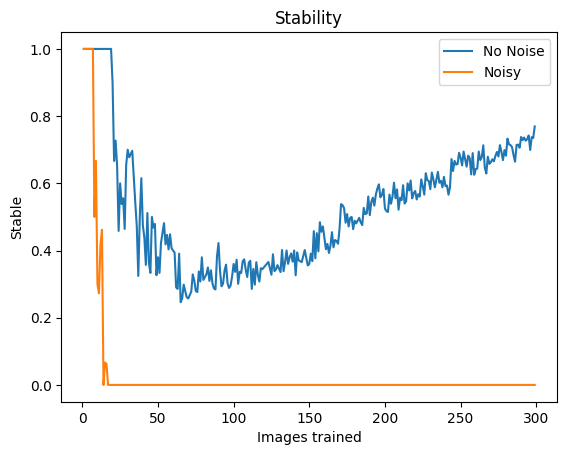
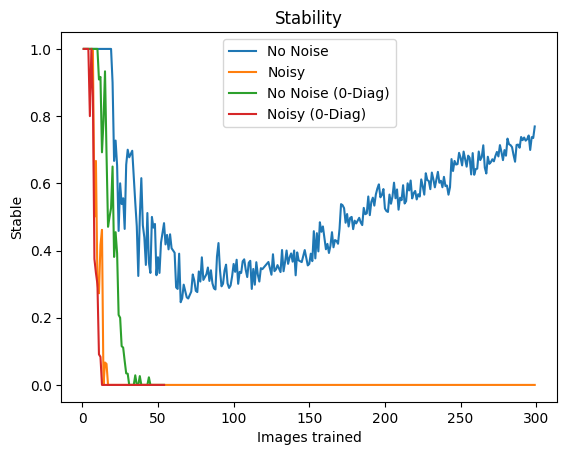
wat

diff --git a/lab3/_3_5.py b/lab3/_3_5.py
@@ -51,19 +51,19 @@ if __name__ == "__main__":
     def checkStable(_images, noiseLevel, delete_diagonal=False):
 
         N = _images.shape[1]
-        
+
         perf = []
         perf_noise = []
 
         for train_idx in range(0, len(_images)):
-            
-            target = _images[:train_idx + 1]
+
+            target = _images[: train_idx + 1]
             target_noisy = np.copy(target)
 
             for i in range(len(target_noisy)):
                 args = np.random.choice(N, int(noiseLevel * N), replace=False)
                 target_noisy[i, args] = target_noisy[i, args] * -1
-            
+
             net = Hopfield()
             net.train(target, delete_diagonal=delete_diagonal)
 
@@ -73,12 +73,17 @@ if __name__ == "__main__":
                 one_iter = net.predict_sync(target[:-1, :], max_iter=1)
                 stable = np.sum(np.all(stable == one_iter, axis=1)) / len(stable)
                 perf.append(stable)
-            
+
                 one_iter_noisy = net.predict_sync(target_noisy[:-1, :], max_iter=1)
-                stable_noisy = np.sum(np.all(stable_noisy == one_iter_noisy, axis=1)) / len(stable_noisy)
+                stable_noisy = np.sum(
+                    np.all(stable_noisy == one_iter_noisy, axis=1)
+                ) / len(stable_noisy)
                 perf_noise.append(stable_noisy)
 
-                print (train_idx, stable, stable_noisy)
+                print(train_idx, stable, stable_noisy)
+
+                if np.sum(perf[-10:]) == 0:
+                    break
 
             stable = net.predict_sync(target)
             stable_noisy = net.predict_sync(target_noisy)
@@ -100,7 +105,7 @@ if __name__ == "__main__":
             for i in range(len(noisy)):
                 args = np.random.choice(N, int(noiseLevel * N), replace=False)
                 noisy[i, args] = noisy[i, args] * -1
-            
+
             pred = net.predict_sync(noisy)
 
             # performance rate
@@ -116,38 +121,62 @@ if __name__ == "__main__":
         return performance
 
     # 3.5.1
-    resultImages = tryToTrainPredict(images, 0.2)
-    resultImages0Diagonal = tryToTrainPredict(images, 0.2, delete_diagonal=True)
+    # resultImages = tryToTrainPredict(images, 0.2)
+    # resultImages0Diagonal = tryToTrainPredict(images, 0.2, delete_diagonal=True)
 
-    randomImages = sign(np.random.randn(200, images.shape[1]))
-    resultRandom = tryToTrainPredict(randomImages, 0.2)
-    resultRandom0Diagonal = tryToTrainPredict(randomImages, 0.2, delete_diagonal=True)
+    # randomImages = sign(np.random.randn(200, images.shape[1]))
+    # resultRandom = tryToTrainPredict(randomImages, 0.2)
+    # resultRandom0Diagonal = tryToTrainPredict(randomImages, 0.2, delete_diagonal=True)
 
-    save = (resultImages, resultImages0Diagonal, resultRandom, resultRandom0Diagonal)
-    pickle.dump(save, open("perf.pkl", "wb"))
+    # save = (resultImages, resultImages0Diagonal, resultRandom, resultRandom0Diagonal)
+    # pickle.dump(save, open("perf.pkl", "wb"))
 
+    (
+        resultImages,
+        resultImages0Diagonal,
+        resultRandom,
+        resultRandom0Diagonal,
+    ) = pickle.load(open("perf.pkl", "rb"))
 
     plotCurves(
         {
-            "Given Images": resultImages,
-            "Given Images (0-Diag)": resultImages0Diagonal,
             "Random Images": resultRandom,
             "Random Images (0-Diag)": resultRandom0Diagonal,
         },
         "# Images Trained",
         "Identified Correctly",
         "Performance (Given vs Random Images)",
+        save_file="pictures/3_5_1_random.png",
+    )
+
+    plotCurves(
+        {"Given Images": resultImages, "Given Images (0-Diag)": resultImages0Diagonal},
+        "# Images Trained",
+        "Identified Correctly",
+        "Performance (Given vs Random Images)",
+        save_file="pictures/3_5_1_given.png",
     )
 
     # 3.5.2
-    # randomImages = sign(np.random.randn(300, 100))
+    randomImages = sign(np.random.randn(300, 100))
     # stable, stable_noise = checkStable(randomImages, 0.2)
+    # stable_0d, stable_noise_0d = checkStable(randomImages, 0.2, delete_diagonal=True)
 
-    # pickle.dump((stable, stable_noise), open("stability.pkl", "wb"))
+    # pickle.dump((stable_0d, stable_noise_0d), open("stability_od.pkl", "wb"))
     stable, stable_noise = pickle.load(open("stability.pkl", "rb"))
+    stable_0d, stable_noise_0d = pickle.load(open("stability_od.pkl", "rb"))
+
 
     plotCurves(
-        {"No Noise": stable, "Noisy": stable_noise}, "Images trained", "Stable", "Stability", save_file="pictures/3_5_stability.png"
+        {"No Noise": stable, 
+        "Noisy": stable_noise,
+        "No Noise (0-Diag)": stable_0d, 
+        "Noisy (0-Diag)": stable_noise_0d
+        },
+        "Images trained",
+        "Stable",
+        "Stability",
+        save_file="pictures/3_5_stability.png",
     )
 
     # 3.5.3
